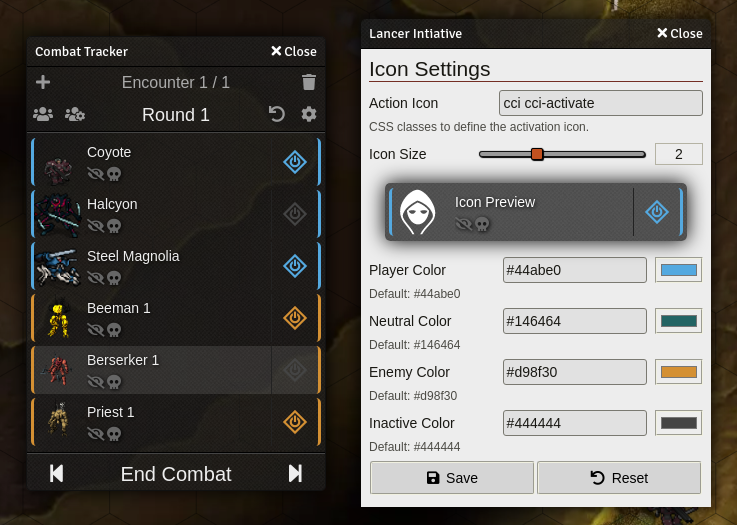
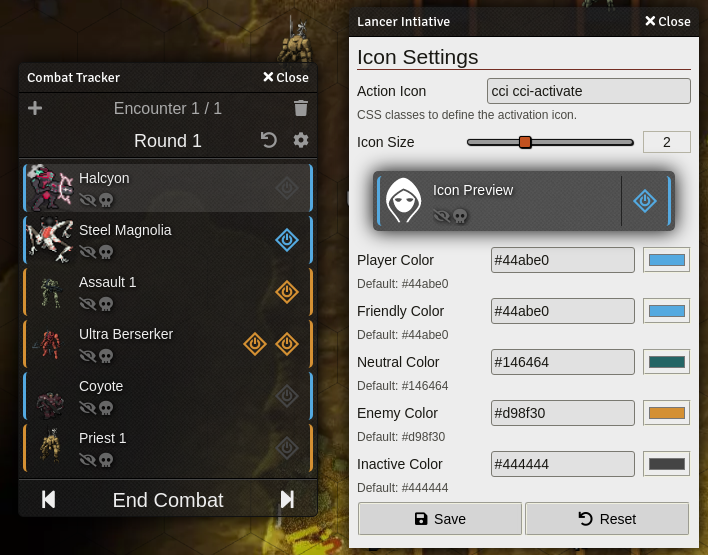
Update README.md and screenshot.png

diff --git a/README.md b/README.md
@@ -1,14 +1,15 @@
 Lancer Initiative
 =================
-![Forge installs](https://img.shields.io/badge/dynamic/json?label=Forge%20Installs&query=package.installs&suffix=%25&url=https%3A%2F%2Fforge-vtt.com%2Fapi%2Fbazaar%2Fpackage%2Flancer-initiative)
 
 Lancer's initiative system for Foundry VTT. While intended for Lancer, this can be used to get popcorn style initiative on any system.
 Lancer Initiative makes the following changes to the Foundry VTT turn tracker:
 
- * Sorts the initiative tracker by token disposition and then token name. The order is players, then neutrals, then hostiles. Setting the initiative for an entry can change the sort order from within the category.
+ * Sorts the initiative tracker by token disposition and then token name. The order is players, then friendly NPCs, then neutrals, then hostiles. Setting the initiative for an entry can change the sort order from within the category.
  * Replaces the Roll Initiative button and initiative display with an activation button. Clicking the button will set the current initiative to that token. Buttons are color coded by faction and greyed out for tokens that have already acted.
+ * Adds the option to sort the tracker by activation status. With the option enabled, the current comabtant will be displayed first, and combatants with no remaining turns will be displayed last.
+ * Initiative rolling can be re-enabled on systems that have an inititaive formula defined. The button and initiative display is moved to the combatant controls under the name.
  * Adds options to the combatant context menu to add, remove and reset activations.
- 
+
 ![Screenshot](https://github.com/BoltsJ/lancer-initiative/blob/default/screenshot.png?raw=true)
 
 Installation
@@ -25,4 +26,6 @@ Paste the following url into the install module dialog in Foundry VTT: https://g
 Known issues
 ------------
 
- * **Status Icon Counters** does not track turns properly when used with this module. 
+ * **Status Icon Counters** does not track turns properly when used with this module.
+ * **Turn Marker** does not properly handle the blank combatant at the start of the turn order, causing the marker to stay on the previous unit and an error to be thrown.
+
